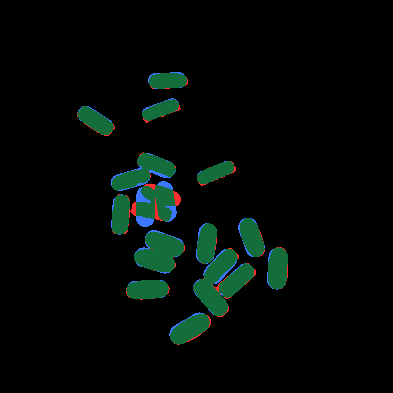
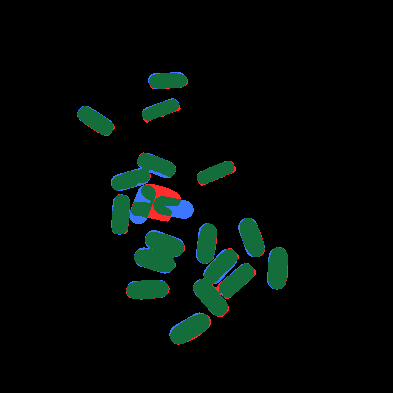
Update /pill (ValEye v20260806-1758)

Changed region(s): [[0.3053, 0.458, 0.4885, 0.5802]]

diff --git a/pill/js/counter.js b/pill/js/counter.js
@@ -1511,6 +1511,35 @@ function pillPhotoScore(distData, w, h, pill) {
   return n ? sum / n : 0;
 }
 
+// Patch-based interior statistics (owner's refinement of render-and-verify):
+// speckled pills on speckled boards make single-pixel reads noisy, so sample
+// 3x3 PATCH MEANS instead; and a mean alone can hide a background corner
+// inside the outline, so also report bgFrac — the fraction of interior
+// patches that read BELOW the photo's own Otsu cut, i.e. patches of actual
+// background color inside the claimed pill. A correct outline has bgFrac ~0
+// regardless of speckle; a wrong-angle or oversized outline pokes into the
+// board and bgFrac says so immediately.
+function pillPhotoStats(distData, w, h, pill, otsuCut) {
+  const c = Math.cos(pill.theta), s = Math.sin(pill.theta);
+  const a = 0.38 * pill.major, b = 0.38 * pill.minor;
+  let sum = 0, n = 0, bg = 0;
+  for (let i = 0; i < 6; i++) {
+    for (let j = 0; j < 4; j++) {
+      const u = (i / 5) * 2 - 1, v = (j / 3) * 2 - 1;
+      const px = Math.round(pill.cx + u * a * c - v * b * s);
+      const py = Math.round(pill.cy + u * a * s + v * b * c);
+      if (px < 1 || py < 1 || px >= w - 1 || py >= h - 1) { bg++; n++; continue; }
+      let pm = 0;                                   // 3x3 patch mean
+      for (let dy = -1; dy <= 1; dy++) for (let dx = -1; dx <= 1; dx++)
+        pm += distData[(py + dy) * w + (px + dx)];
+      pm /= 9;
+      sum += pm; n++;
+      if (pm < otsuCut) bg++;
+    }
+  }
+  return { mean: n ? sum / n : 0, bgFrac: n ? bg / n : 1 };
+}
+
 /**
  * Count pills in an image.
  * @param {object} cv - OpenCV module
@@ -3955,49 +3984,131 @@ export function countPills(cv, source, opts = {}) {
           let sxx = 0, sxy = 0, syy = 0;
           for (const [x, y] of pxs) { const dx = x - mx, dy = y - my; sxx += dx * dx; sxy += dx * dy; syy += dy * dy; }
           const th0 = 0.5 * Math.atan2(2 * sxy, sxx - syy);
-          const ux = Math.cos(th0), uy = Math.sin(th0);
-          let lo = Infinity, hi = -Infinity;
-          for (const [x, y] of pxs) { const t = (x - mx) * ux + (y - my) * uy; if (t < lo) lo = t; if (t > hi) hi = t; }
-          let C = Array.from({ length: k }, (_, i) => {
-            const t = lo + (hi - lo) * (i + 0.5) / k;
-            return [mx + ux * t, my + uy * t];
-          });
-          const asg = new Array(pxs.length).fill(0);
-          for (let it = 0; it < 18; it++) {
-            let moved = false;
-            for (let i = 0; i < pxs.length; i++) {
-              let b = 0, bd = Infinity;
-              for (let c = 0; c < k; c++) {
-                const d2 = (pxs[i][0] - C[c][0]) ** 2 + (pxs[i][1] - C[c][1]) ** 2;
-                if (d2 < bd) { bd = d2; b = c; }
+          // A k-pill blob can be near-square (two horizontal pills stacked
+          // vertically), making the principal axis a coin flip — seeding
+          // along the wrong one splits every pill in half and every cell's
+          // orientation comes out 90 degrees wrong (field report: vertical
+          // capsules drawn over horizontal pills). So run Lloyd from BOTH
+          // candidate axes and let the photo choose: score each partition by
+          // its cells' interiors at TEMPLATE dims — a wrong-orientation
+          // template sticks out of the pill material and samples background,
+          // scoring visibly lower. Same render-and-verify principle as
+          // everywhere else; no constant involved.
+          const runLloyd = (axTheta) => {
+            const ux = Math.cos(axTheta), uy = Math.sin(axTheta);
+            let lo = Infinity, hi = -Infinity;
+            for (const [x, y] of pxs) { const t = (x - mx) * ux + (y - my) * uy; if (t < lo) lo = t; if (t > hi) hi = t; }
+            const C = Array.from({ length: k }, (_, i) => {
+              const t = lo + (hi - lo) * (i + 0.5) / k;
+              return [mx + ux * t, my + uy * t];
+            });
+            const asg = new Array(pxs.length).fill(0);
+            for (let it = 0; it < 18; it++) {
+              let moved = false;
+              for (let i = 0; i < pxs.length; i++) {
+                let b = 0, bd = Infinity;
+                for (let c = 0; c < k; c++) {
+                  const d2 = (pxs[i][0] - C[c][0]) ** 2 + (pxs[i][1] - C[c][1]) ** 2;
+                  if (d2 < bd) { bd = d2; b = c; }
+                }
+                if (asg[i] !== b) { asg[i] = b; moved = true; }
               }
-              if (asg[i] !== b) { asg[i] = b; moved = true; }
+              const sum = Array.from({ length: k }, () => [0, 0, 0]);
+              for (let i = 0; i < pxs.length; i++) { const s2 = sum[asg[i]]; s2[0] += pxs[i][0]; s2[1] += pxs[i][1]; s2[2]++; }
+              for (let c = 0; c < k; c++) if (sum[c][2]) C[c] = [sum[c][0] / sum[c][2], sum[c][1] / sum[c][2]];
+              if (!moved) break;
             }
-            const sum = Array.from({ length: k }, () => [0, 0, 0]);
-            for (let i = 0; i < pxs.length; i++) { const s2 = sum[asg[i]]; s2[0] += pxs[i][0]; s2[1] += pxs[i][1]; s2[2]++; }
-            for (let c = 0; c < k; c++) if (sum[c][2]) C[c] = [sum[c][0] / sum[c][2], sum[c][1] / sum[c][2]];
-            if (!moved) break;
-          }
-          // per-cell orientation from its own pixels; dims from the template
-          const cs2 = Array.from({ length: k }, () => ({ n: 0, sx: 0, sy: 0, sxx: 0, sxy: 0, syy: 0 }));
-          for (let i = 0; i < pxs.length; i++) {
-            const a2 = cs2[asg[i]], [x, y] = pxs[i];
-            a2.n++; a2.sx += x; a2.sy += y; a2.sxx += x * x; a2.sxy += x * y; a2.syy += y * y;
-          }
-          const pills = [];
-          for (const a2 of cs2) {
-            if (a2.n < 15) continue;
-            const cx = a2.sx / a2.n, cy = a2.sy / a2.n;
-            const cxx = a2.sxx / a2.n - cx * cx, cxy2 = a2.sxy / a2.n - cx * cy, cyy = a2.syy / a2.n - cy * cy;
-            const th = 0.5 * Math.atan2(2 * cxy2, cxx - cyy);
-            pills.push({ cx, cy, theta: +th.toFixed(3), major: tMajor, minor: tMinor, photo: 0 });
-          }
+            const cs2 = Array.from({ length: k }, () => ({ n: 0, sx: 0, sy: 0, sxx: 0, sxy: 0, syy: 0 }));
+            for (let i = 0; i < pxs.length; i++) {
+              const a2 = cs2[asg[i]], [x, y] = pxs[i];
+              a2.n++; a2.sx += x; a2.sy += y; a2.sxx += x * x; a2.sxy += x * y; a2.syy += y * y;
+            }
+            const pills2 = [];
+            for (const a2 of cs2) {
+              if (a2.n < 15) continue;
+              const cx = a2.sx / a2.n, cy = a2.sy / a2.n;
+              const cxx = a2.sxx / a2.n - cx * cx, cxy2 = a2.sxy / a2.n - cx * cy, cyy = a2.syy / a2.n - cy * cy;
+              const th = 0.5 * Math.atan2(2 * cxy2, cxx - cyy);
+              pills2.push({ cx, cy, theta: +th.toFixed(3), major: tMajor, minor: tMinor, photo: 0 });
+            }
+            let score = 0, bgSum = 0;
+            for (const p2 of pills2) {
+              const st2 = pillPhotoStats(distBg.data, w, h, p2, otsuThr);
+              p2.photo = st2.mean; p2.bgFrac = st2.bgFrac;
+              score += st2.mean; bgSum += st2.bgFrac;
+            }
+            return { pills: pills2, score, bgSum };
+          };
+          const candA = runLloyd(th0);
+          const candB = runLloyd(th0 + Math.PI / 2);
+          // Primary criterion: NO background inside the outlines (rigid pills
+          // never contain board). Only when both are equally clean does the
+          // stronger interior signal decide.
+          const winner =
+            candB.bgSum < candA.bgSum - 0.05 ? candB :
+            candA.bgSum < candB.bgSum - 0.05 ? candA :
+            (candB.score > candA.score ? candB : candA);
+          const pills = winner.pills;
+          if (candA.pills.length && candB.pills.length)
+            opts.debug?.({ stage: 'placeaxis', label: g.label, k,
+              a: +candA.score.toFixed(1), b: +candB.score.toFixed(1),
+              chose: winner === candB ? 'perp' : 'principal' });
           if (pills.length) {
-            for (const p2 of pills) p2.photo = pillPhotoScore(distBg.data, w, h, p2);
             const medP = median(pills.map((p2) => p2.photo)) || 1;
-            for (const p2 of pills) { p2.valid = +Math.min(1, p2.photo / medP).toFixed(2); delete p2.photo; }
+            for (const p2 of pills) {
+              p2.valid = +((1 - (p2.bgFrac || 0)) * Math.min(1, p2.photo / medP)).toFixed(2);
+              delete p2.photo; delete p2.bgFrac;
+            }
             g.pills = pills;
             g.placed = 'lloyd';
+          }
+        }
+      }
+
+      // ---- POSE REFINEMENT: consume the residual signal ----
+      // The owner, reading the residual view: "why isn't it clear that
+      // ROTATING would fix the overlap?" It is — blue lobes (outline over
+      // background) perpendicular to red lobes (mask no outline explains)
+      // are exactly a rotation error, and red/blue displaced to one side is
+      // a translation error. So each placed pill now locally optimizes its
+      // pose against the mask itself: maximize (foreground covered) minus
+      // (background claimed), over rotations up to ±90° and small shifts.
+      // No constants beyond the search grid; the objective IS the residual.
+      {
+        const fgAt = (x, y) => {
+          if (x < 0 || y < 0 || x >= w || y >= h) return 0;
+          return activeMd[(y | 0) * w + (x | 0)] > 0 ? 1 : 0;
+        };
+        const poseScore = (p2, cx, cy, th) => {
+          const c = Math.cos(th), s2 = Math.sin(th);
+          const a = 0.46 * p2.major, b = 0.46 * p2.minor;
+          let inFg = 0, inBg = 0;
+          for (let i = 0; i < 9; i++) for (let j = 0; j < 5; j++) {
+            const u = (i / 8) * 2 - 1, v = (j / 4) * 2 - 1;
+            if (u * u + v * v > 1.05) continue;
+            const x = cx + u * a * c - v * b * s2;
+            const y = cy + u * a * s2 + v * b * c;
+            fgAt(x, y) ? inFg++ : inBg++;
+          }
+          return inFg - 2 * inBg;    // claiming background is worse than
+        };                            // leaving foreground for a neighbour
+        for (const g of regions) {
+          if (!g.pills) continue;
+          for (const p2 of g.pills) {
+            let best = { s: poseScore(p2, p2.cx, p2.cy, p2.theta),
+              cx: p2.cx, cy: p2.cy, th: p2.theta };
+            for (let pass = 0; pass < 2; pass++) {
+              const dth = pass === 0 ? Math.PI / 12 : Math.PI / 48;   // 15°, then 3.75°
+              const dxy = pass === 0 ? 2.5 : 1;
+              for (let r2 = -6; r2 <= 6; r2++) {
+                const th = best.th + r2 * dth;
+                for (let ox = -1; ox <= 1; ox++) for (let oy = -1; oy <= 1; oy++) {
+                  const sc = poseScore(p2, best.cx + ox * dxy, best.cy + oy * dxy, th);
+                  if (sc > best.s) best = { s: sc, cx: best.cx + ox * dxy, cy: best.cy + oy * dxy, th };
+                }
+              }
+            }
+            p2.cx = best.cx; p2.cy = best.cy; p2.theta = +best.th.toFixed(3);
           }
         }
       }

diff --git a/pill/sw.js b/pill/sw.js
@@ -1,4 +1,4 @@
-const CACHE = 'valeye-v20260806-1727';
+const CACHE = 'valeye-v20260806-1758';
 const ASSETS = [
   './',
   'index.html',
